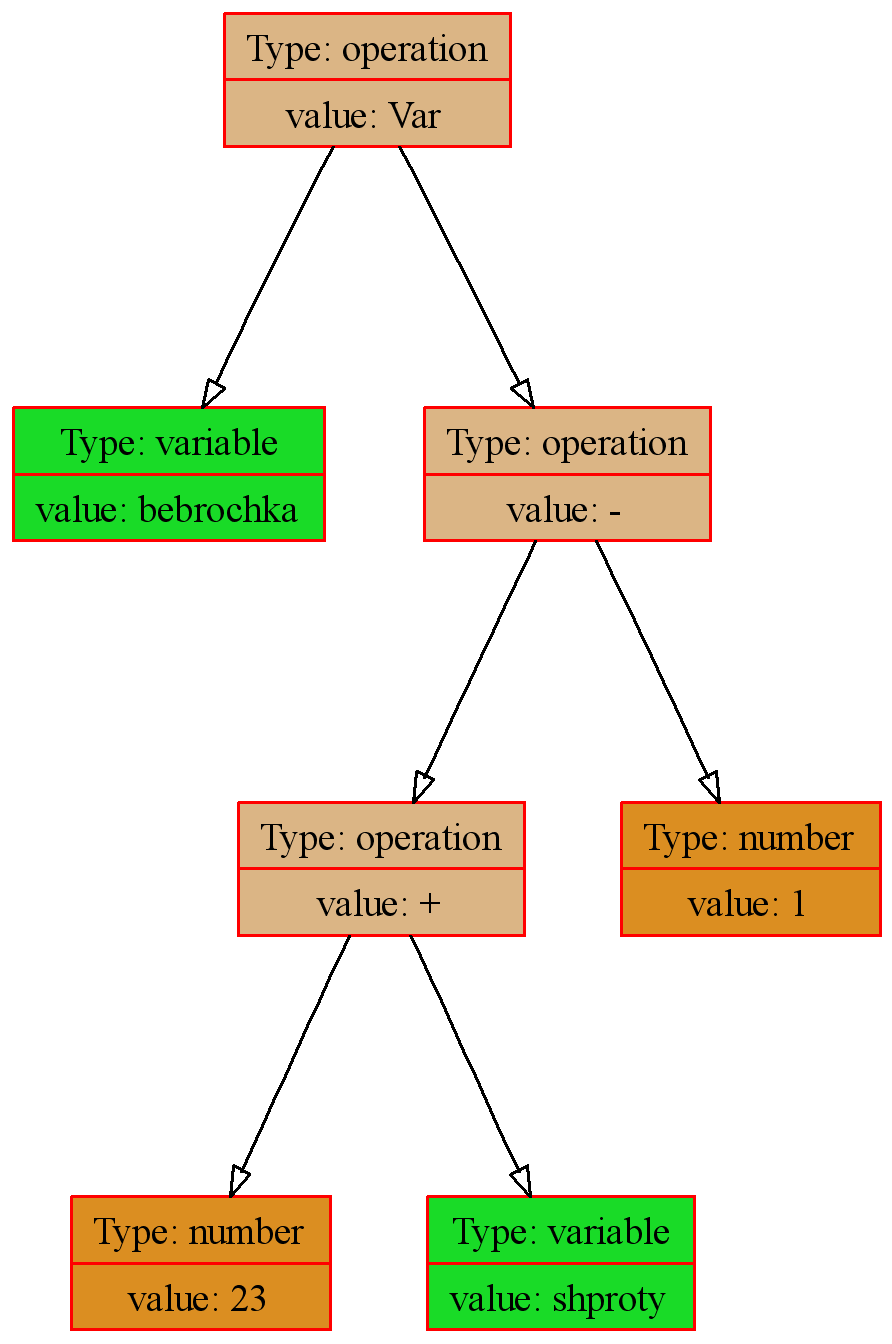
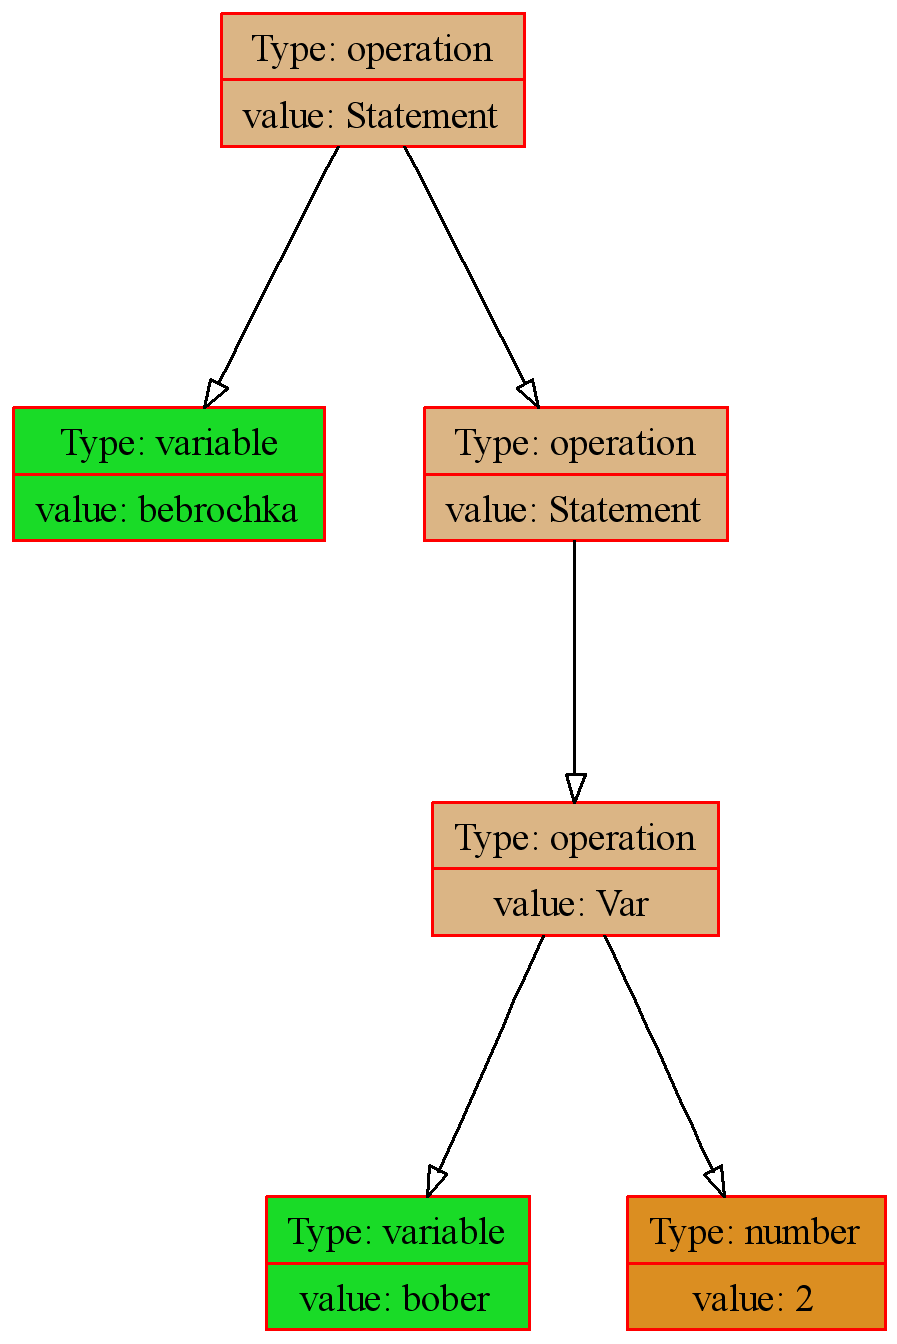
added statement nodes

diff --git a/frontend/src/parser.cpp b/frontend/src/parser.cpp
@@ -50,7 +50,7 @@ TreeNode* GetGrammar ()
     int token_id = 0;
     int* cur_token_id = &token_id;
 
-    TreeNode* root = GetVar(TOKENS_DATA); 
+    TreeNode* root = GetStatement(TOKENS_DATA); 
 
     if (CUR_TOKEN.value.op_val == TERMINATION_SYM)
         printf ("G: Got termination symbol, ending\n");
@@ -62,11 +62,25 @@ TreeNode* GetGrammar ()
 }
 
 
+TreeNode* GetStatement (Token token_array[], int* cur_token_id)
+{
+    printf ("%d: ", *cur_token_id);
+    printf ("St: Now at %d\n", CUR_TOKEN.value.op_val);
+
+    if (CUR_TOKEN.value.op_val == TERMINATION_SYM) return nullptr;
+
+    NEXT_TOKEN;
+    TreeNode* left_child = GetVar (TOKENS_DATA);
+    TreeNode* next_statement = GetStatement (TOKENS_DATA);
+
+    return OP_NODE (ST, left_child, next_statement);
+}
+
+
 TreeNode* GetVar (Token token_array[], int* cur_token_id)
 {
     printf ("%d: ", *cur_token_id);
-
-    printf ("St: Now at %d\n", CUR_TOKEN.value.op_val);
+    printf ("Var: Now at %d\n", CUR_TOKEN.value.op_val);
 
     if (CHECK_OP_T (VAR))
     {

diff --git a/frontend/include/dictionary.h b/frontend/include/dictionary.h
@@ -1,19 +1,24 @@
 CMD(IF, "kuda_epta");
 CMD(ELSE, "ai_ladno");
+
 CMD(ADD, "skatat'");
 CMD(SUB, "styrit'");
 CMD(MUL, "miaiaiaiau");
 CMD(DIV, "miiuiaiaiaiau");
+
 CMD(OPEN_BR, "poidem_zhrat'")
 CMD(CLOSE_BR, "poidem_botat'")
-CMD(OPEN_BR, "(")
-CMD(CLOSE_BR, ")")
 CMD(FUNC, "vatafak")
 CMD(RET, "lee_kuda_presh'")
 CMD(VAR, "eto_eshche_chto")
 CMD(CALL, "burniaiaiaiaia")
+CMD(OPEN_BR, "(")
+CMD(CLOSE_BR, ")")
+
 CMD(IS_EE, "==")
 CMD(SEMI_COL, ";")
+
+
 
 
 // Надпись по русски:
